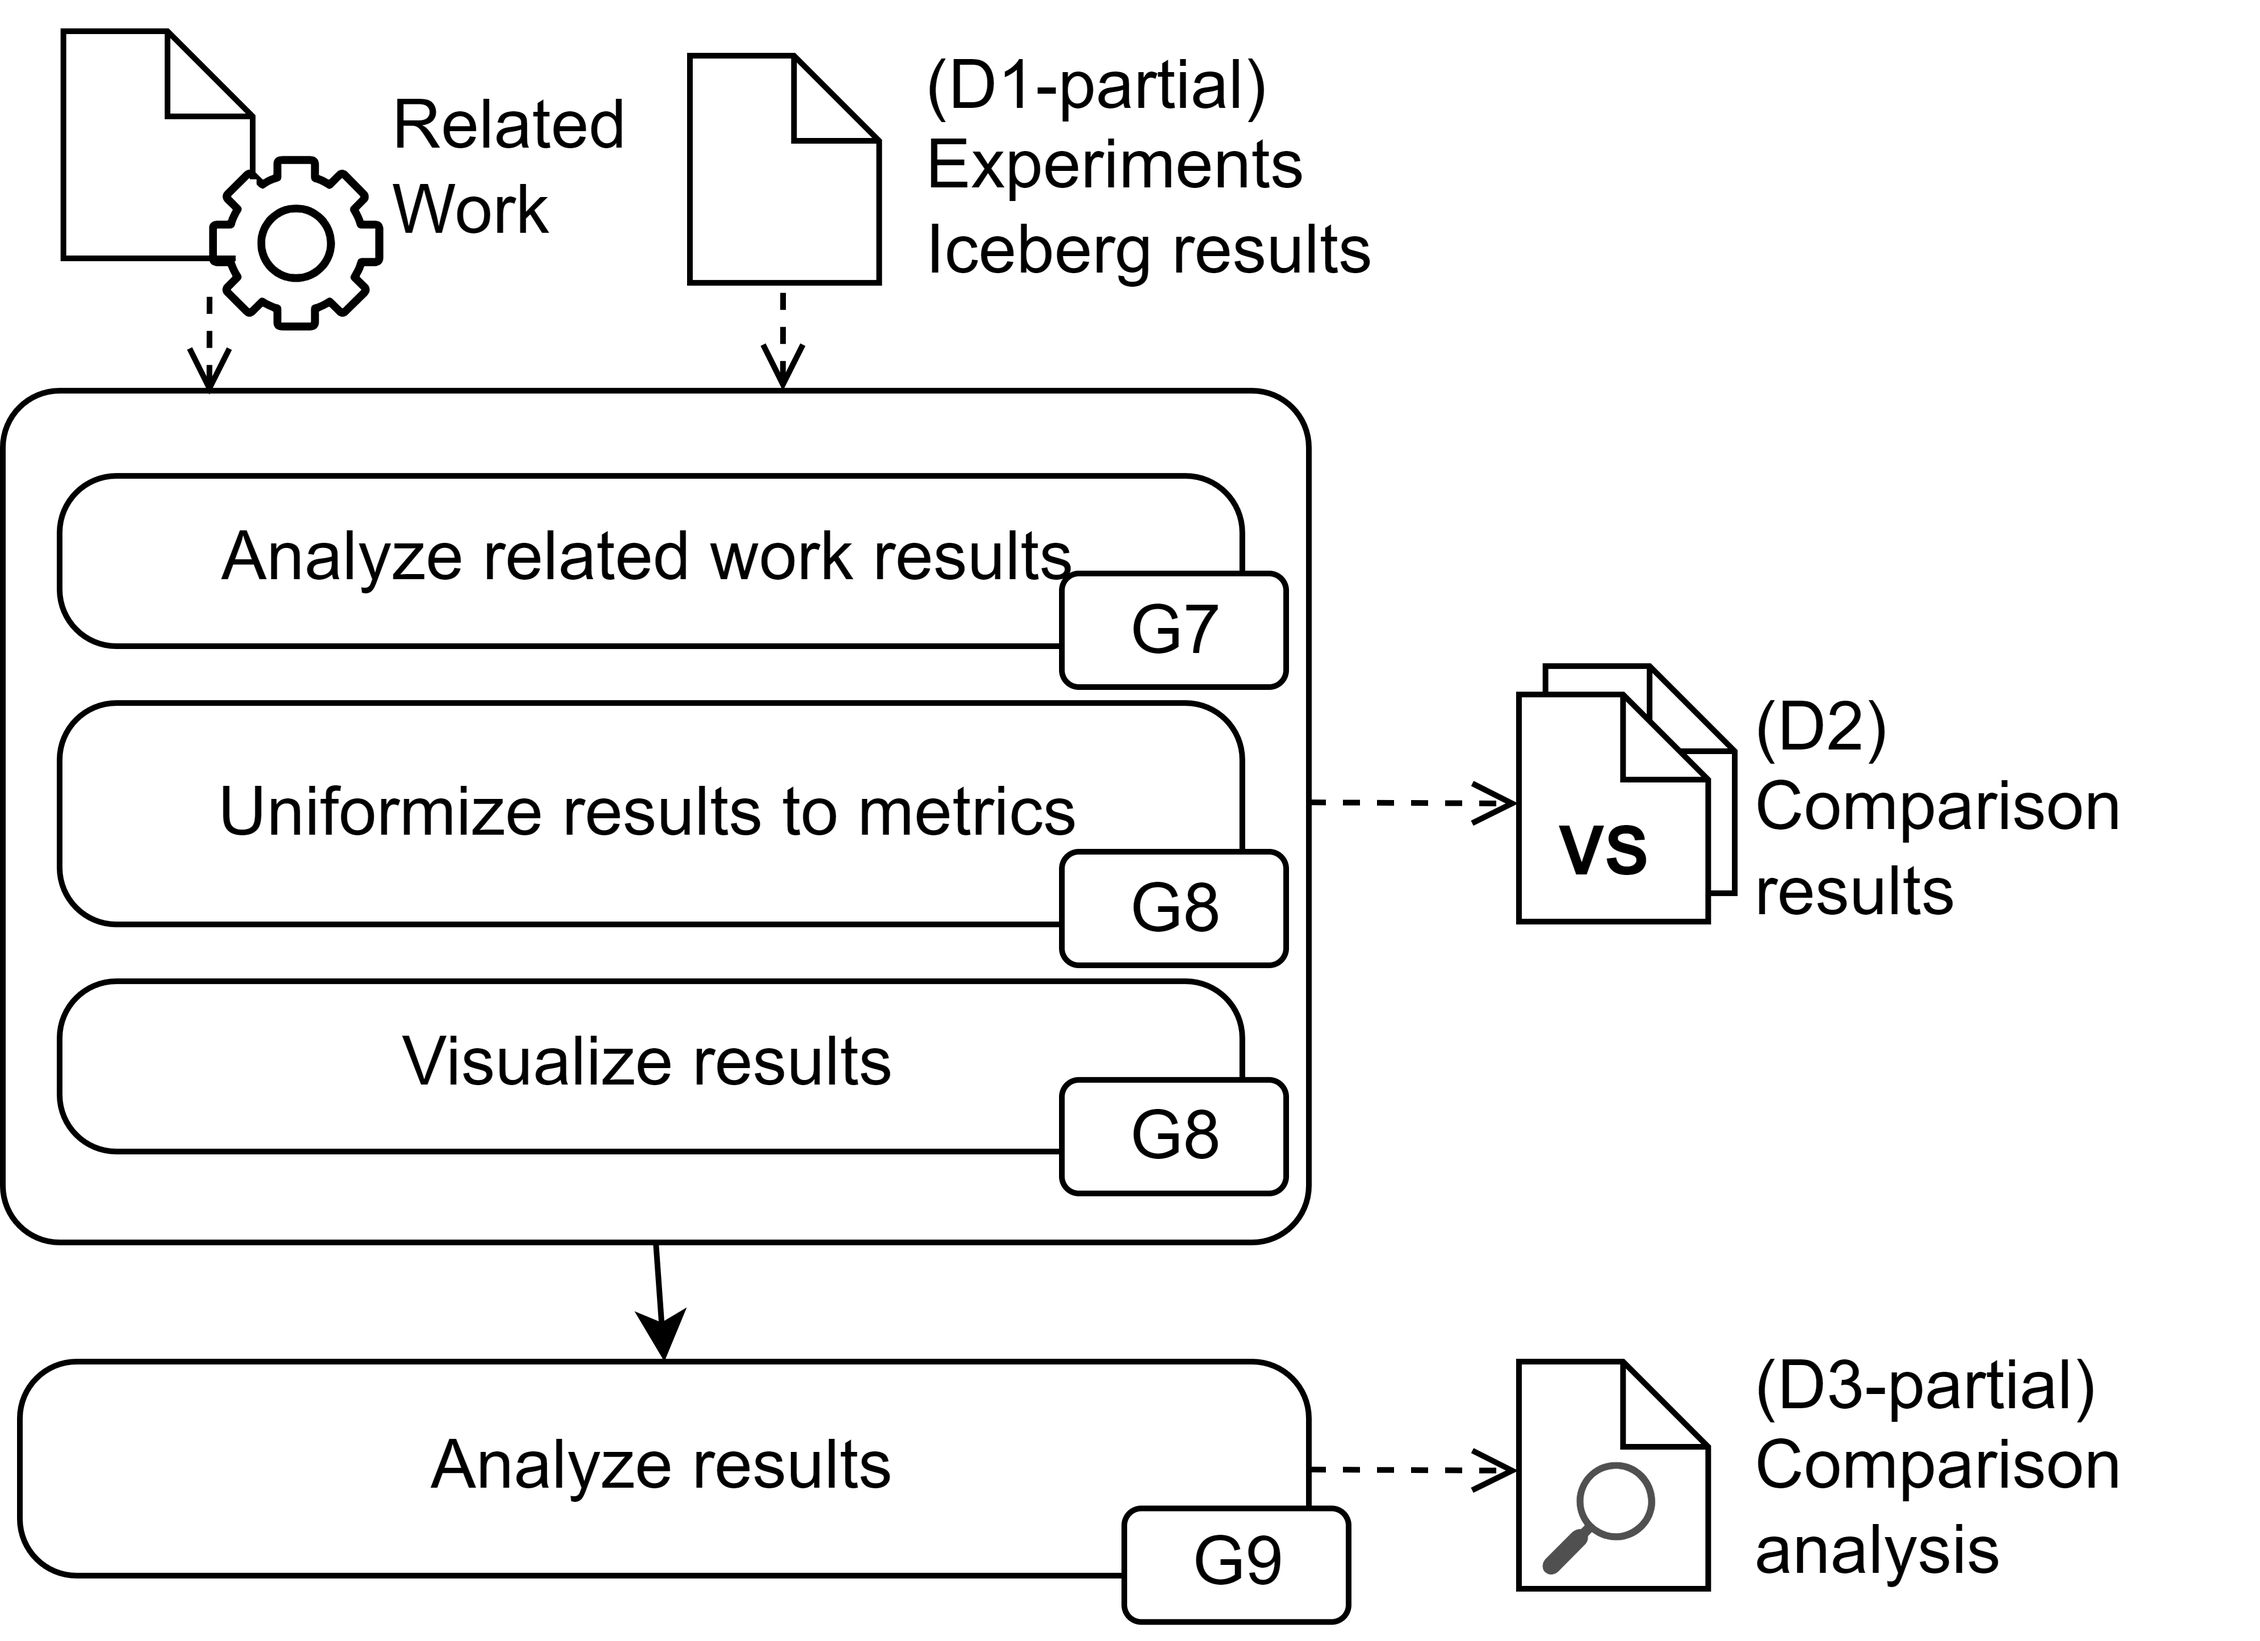
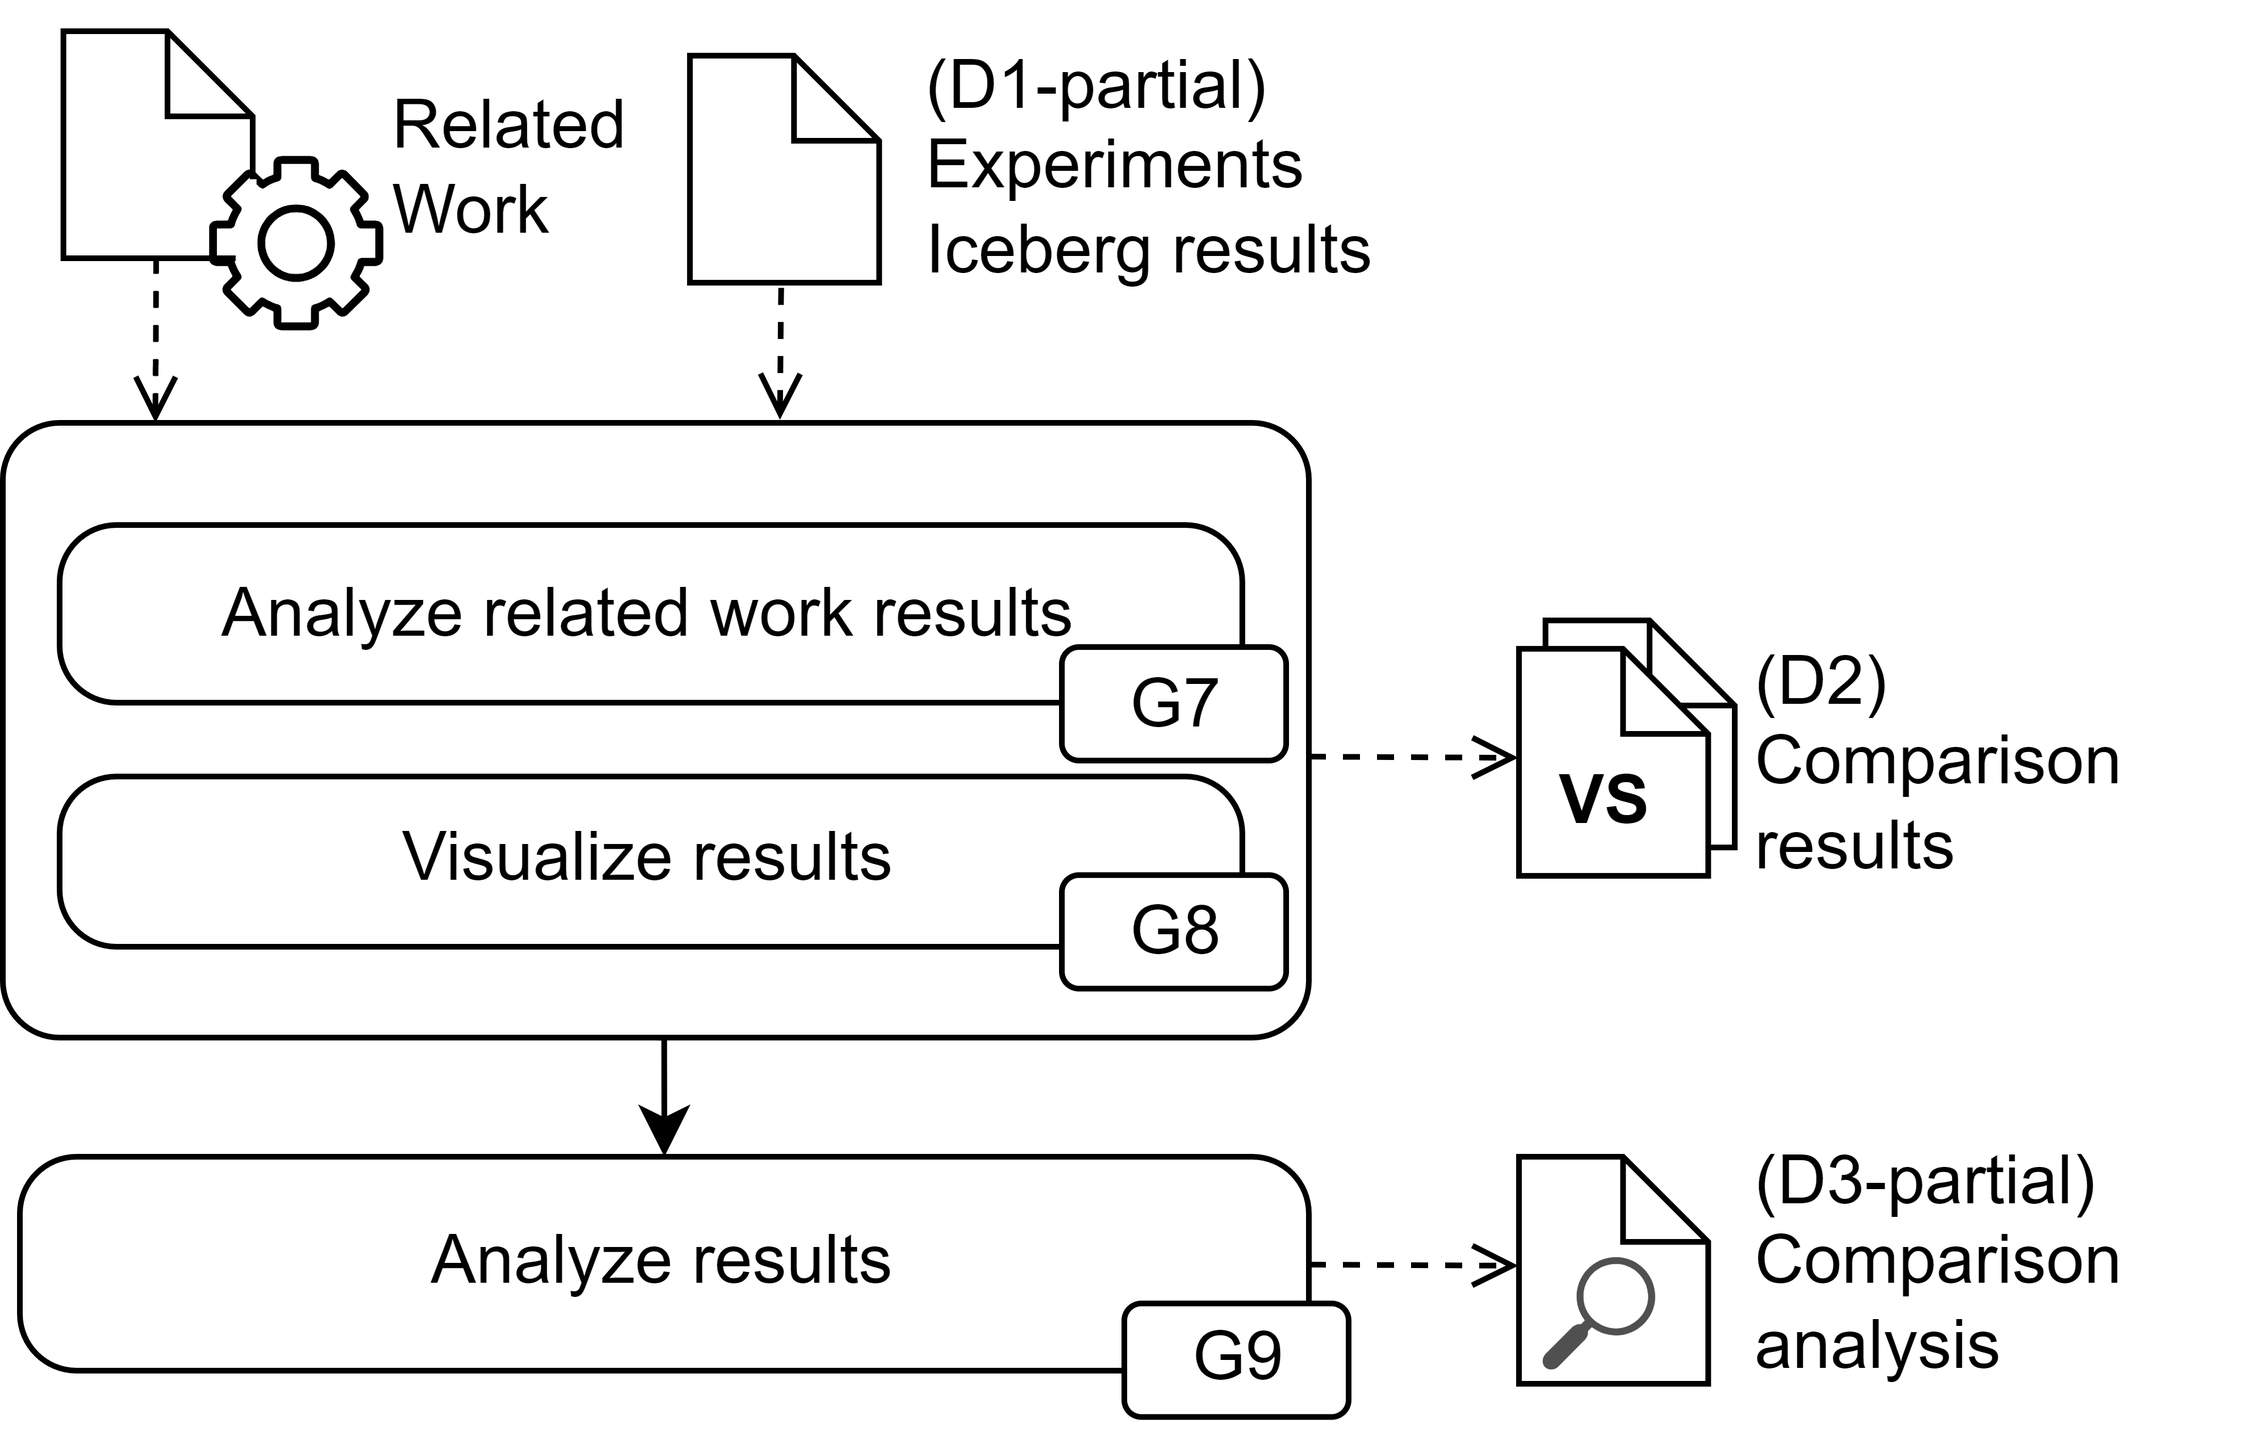
Concluded method section

diff --git a/contents/3-method/2-system_eval_hudi_iceberg.tex b/contents/3-method/2-system_eval_hudi_iceberg.tex
@@ -13,7 +13,7 @@ This evaluation process will follow a sequential approach described in Figure~\r
 \end{enumerate}
 \begin{figure}[!ht]
     \begin{center}
-    \includegraphics[width=0.8\textwidth]{figures/3-method/method_exp.png}
+    \includegraphics[width=0.7\textwidth]{figures/3-method/method_exp.png}
     \caption[System evaluation process - Hudi vs. Iceberg]{Diagram of the system evaluation process partially answering \gls{RQ}1. Each activity is associated to specific \gls{G}. The process produces two \glspl{D}, the experiments results (\gls{D}1) and a results analysis (\gls{D}3-partial).}
     \label{fig:method_experiments}
     \end{center}
@@ -26,9 +26,9 @@ This evaluation process will follow a sequential approach described in Figure~\r
 
 Several choices must be made for a system evaluation: which data will be used, which environment will run the experiments, and which metrics will be used to evaluate the system. Those choices depends on the scenarios for which the system is created. Thus, this Subsection describes the typical use case for this system. Follwing, the other Subsections describe which were the decision taken accordingly. While conducting their research in Hopsworks, the author outlined a typical industrial use case for the Hopsworks feature store, by reading internal documentation and discussing with several employees on their customer needs and trends. The use case is described by:
 \begin{itemize}  
-  \item \textbf{Table size}: most of the Hospworks' customers' workloads were limited (from 1M to 100M rows), with only few clients needing support for massive workloads (more than 1BN rows). Thus, this project opted to improve performance for the smaller workloads (from 100k to 100M rows). The datatset selected are presented in Section~\ref{subsec:experimental_data}.
+  \item \textbf{Table size}: most of the Hospworks' customers' workloads were limited (from 1M to 100M rows), with only few clients needing support for massive workloads (more than 1B rows). Thus, this project opted to improve performance for the smaller workloads (from 100k to 100M rows). The datatset selected are presented in Section~\ref{subsec:experimental_data}.
   \item \textbf{Type of data}: the Hopsworks feature store works only with structured data (e.g., numbers, strings), thus experiment design and selected datasets embody this scenario.
-  \item \textbf{Rows over storage size}: In the experimental part of this thesis, in order to have a realible unit measures for table size, the number of rows will be over the storage size (bytes). Perhaps, in the structured data domain of this use case, storage size (bytes) is neither linked to a table structure nor to a storage structure, arguably making this not reliable (i.e, table with a lot of rows and few columns, and a table with few ros and a lot of columns occupies the same memory).
+  \item \textbf{Rows over storage size}: In the experimental part of this thesis, in order to have a reliable unit measure for table size, the number of rows will be over the storage size (bytes). Perhaps, in the structured data domain of this use case, storage size (bytes) is neither linked to a table structure nor to a storage structure, arguably making this unit measure not reliable (i.e, table with a lot of rows and few columns, and a table with few ros and a lot of columns occupies the same memory).
   \item \textbf{Client configuration}: the client configuration is modeled to reflect typical customers' clients' computational and storage capabilities. Thus, the configuration are limited between one and eight \gls{CPU} cores, \gls{RAM} just sufficient for system needs and common \gls{SSD} storages. The experimental environment is further detailed in Section~\ref{subsec:experimental_env}.
 \end{itemize}
 
@@ -144,13 +144,13 @@ Caches (sum of all):
 
 %%%% EVALUATION FRAMEWORK
 \subsection{Evaluation framework}
-\label{subsec:method_eval_framework}
+\label{subsec:method_eval_framework_hudi_iceberg}
 
 The system evaluation framework will evaluate the different system on three key aspects:
 \begin{enumerate}
     \item \textbf{Functional requirements}: will be measured by verifying the success or failure of running an experiment. This will not happen by design, since the system integration phase stops only when all functional requirements are met. Those are escribed in Section \ref{subsec:integration_reqs}:
     \item \textbf{Non-functional requirements}: Consistency and maintainability are mainly addressed during integration, while scalability is measured during the system evaluation experiments. The metric used for measuring this requirement is the throughput, as defined in \gls{RQ}1.
-    \item \textbf{How does the legacy system compare to PyIceberg pipelines?} this question answers directly \gls{RQ}1, measuring the throughput of the pipelines defined in Section \ref{subsec:experimental_design}. Results are then compared using a visual approach.
+    \item \textbf{How does the legacy pipeline compare to the PyIceberg pipeline?} this question answers directly \gls{RQ}1, measuring the throughput of the pipelines defined in Section \ref{subsec:experimental_design}. Results are then compared using a visual approach.
 \end{enumerate} 
 
 

diff --git a/contents/3-method/3-system_eval_iceberg_delta.tex b/contents/3-method/3-system_eval_iceberg_delta.tex
@@ -1,19 +1,34 @@
-This Section explains the method and principles used for the system evaluation processes, measuring and comparing the performance (latency, in seconds, and throughput, in rows/second) of reading and writing Iceberg and Delta Lake tables on \gls{HopsFS}. Those operations are conducted respectively on the PyIceberg-based system, integrated in this thesis work, and on the Rust-based system, implemented in a related work \cite{manfrediReducingReadWrite2024}.
+This Section firstly explains the steps of this system evaluation processes, aimed at measuring and comparing the performance (latency, in seconds, and throughput, in rows/second) of reading and writing Iceberg and Delta Lake tables on \gls{HopsFS}. Those experiments will be conducted respectively on the PyIceberg-based system, integrated in this thesis work, and on the Rust-based system, implemented in a related work \cite{manfrediReducingReadWrite2024}. Then, it presents the evaluation framework used by in this process.
 
+
+
+%%%% EVALUATION PROCESS
 \subsection{Evaluation process - RQ2 - Iceberg vs. Delta Lake}
 \label{subsec:eval_process_iceberg_delta}
 This evaluation process will follow a sequential approach described in Figure~\ref{fig:method_comparison}. Each step of this process is related to one of the \glspl{G}7-9 associated with the \gls{RQ}2 in Section \ref{sec:intro_goals}. The relationships between each process activity and \glspl{G} are here explained:
 \begin{enumerate}
-    \item \textbf{Identify related work}: this activity is requisite to fulfill \gls{G}7, identifying the related work that includes comparative performance comparisons.
-    \item \textbf{Analyze related work results}: this activity maps perfectly to \gls{G}7, analyzing the results coming from the related work identified in the step above.
-    \item \textbf{Uniformize results to metrics}: this activity is requisite to fulfill \gls{G}8, uniforming results of related work's experiments according to previosuly defined metrics, i.e., latency, measured in seconds, and throughput, measured  in rows/second.
-    \item \textbf{Visualize results}: this activity maps perfectly to \gls{G}8. It takes as input also Iceberg experiments results (\gls{D}1-partial), visualizing thus the experiments' result according latency, measured in seconds, and throughput, measured in rows/second. This activity generates \gls{D}2, the comparative experiments results complemented with tables and histograms, presented in Chapter \ref{ch:results_and_analysis}.
+    \item \textbf{Analyze related work results}: this activity maps perfectly to \gls{G}7, analyzing the results coming from the related work took as input by this process.
+    \item \textbf{Visualize results}: this activity maps perfectly to \gls{G}8. It takes as input also Iceberg experiments results (\gls{D}1-partial), visualizing thus the experiments' result according latenc and throughput. This activity generates \gls{D}2, the comparative experiments results complemented with tables and histograms, presented in Chapter \ref{ch:results_and_analysis}.
     \item \textbf{Analyze results}: this activity maps perfectly to \gls{G}9, analyzing and interpreting the results delivered in \gls{D}2. This activity contributes to \gls{D}3, generating the comparative analysis of the experiment results, presented in Chapter \ref{ch:results_and_analysis}.
 \end{enumerate}
 \begin{figure}[!ht]
     \begin{center}
-    \includegraphics[width=0.8\textwidth]{figures/3-method/method_comp.png}
+    \includegraphics[width=0.7\textwidth]{figures/3-method/method_comp.png}
     \caption[System evaluation process - Iceberg vs. Delta Lake]{Diagram of the system evaluation process partially answering \gls{RQ}2. Each activity is associated to specific \gls{G}. The process produces two \glspl{D}, the comparative expertiments results (\gls{D}2) and a comparative results analysis (\gls{D}3-partial).}
     \label{fig:method_comparison}
     \end{center}
 \end{figure}
+
+
+
+%%%% EVALUATION FRAMEWORK
+\subsection{Evaluation framework}
+\label{subsec:method_eval_framework_iceberg_delta}
+
+This system evaluation framework is similar to the system evaluation framework described in Section \ref{subsec:method_eval_framework_hudi_iceberg}, but will not focus on functional requirements, as they will be already assessed in previous section, for Iceberg, and they have been already assessed in the related work, for Delta Lake. Thus, this evaluation framework will evaluate the different system on two key aspects:
+\begin{enumerate}
+    \item \textbf{Non-functional requirements}: Consistency and maintainability are mainly addressed during integration, while scalability is measured during the system evaluation experiments. The metric used for measuring this requirement is the throughput, as defined in \gls{RQ}2.
+    \item \textbf{How does the PyIceberg pipeline compare to the Delta Lake pipeline?} this question answers directly \gls{RQ}2, measuring the throughput of the PyIceberg pipeline defined in Section \ref{subsec:experimental_design} and the Delta Lake pipeline \cite{manfrediReducingReadWrite2024}. Results are then compared using a visual approach.
+\end{enumerate}
+
+

diff --git a/contents/3-method/0-intro.tex b/contents/3-method/0-intro.tex
@@ -1,1 +1,3 @@
 This chapter defines three methodologies that will be applied sequentially in this project, answering the two \glspl{RQ} defined in Section~\ref{subsec:research_questions}. Section~\ref{sec:system_integration} defines the system integration process that outputs part of \gls{D}3, i.e., the integration detail. This output will enable the Hudi vs. Iceberg system evaluation defined in Section~\ref{sec:system_evaluation_hudi_iceberg}, which will output \gls{D}1, i.e., the results of the experiments. The Iceberg experiment results (\gls{D}1-partial) will enable the Iceberg vs. Delta Lake system evaluation, defined in Section~\ref{sec:system_evaluation_iceberg_delta}, which will output \gls{D}2, i.e.,the results of the comparative experiments. The analysis of \glspl{D}1-2 will be delivered in \gls{D}3, i.e. this comprehensive thesis report.
+
+It has to be noticed that the system evaluation processes, described in Sections \ref{sec:system_evaluation_hudi_iceberg}-\ref{sec:system_evaluation_iceberg_delta}, are inspired by the system evaluation process of a related work \cite{manfrediReducingReadWrite2024}. That related work was hosted by the same company which hosted this thesis work, Hopsworks AB, and it focused on answering \glspl{RQ} on some intent similar to the ones described in Section \ref{subsec:research_questions}. The related work enabled write and read operations on Delta Lake tables stored on \gls{HopsFS}, and investigated performance differences between that system and the current Hopsworks legacy system. Following similar system evaluation processes will not only allow to answer this project's \glspl{RQ}, but will also enable the reader to fairly compare the three technologies investigated in these two thesis works. For the same reason, it easen the comparative process described in Section \ref{sec:system_evaluation_iceberg_delta}, and will make its results more fair and consistent.
